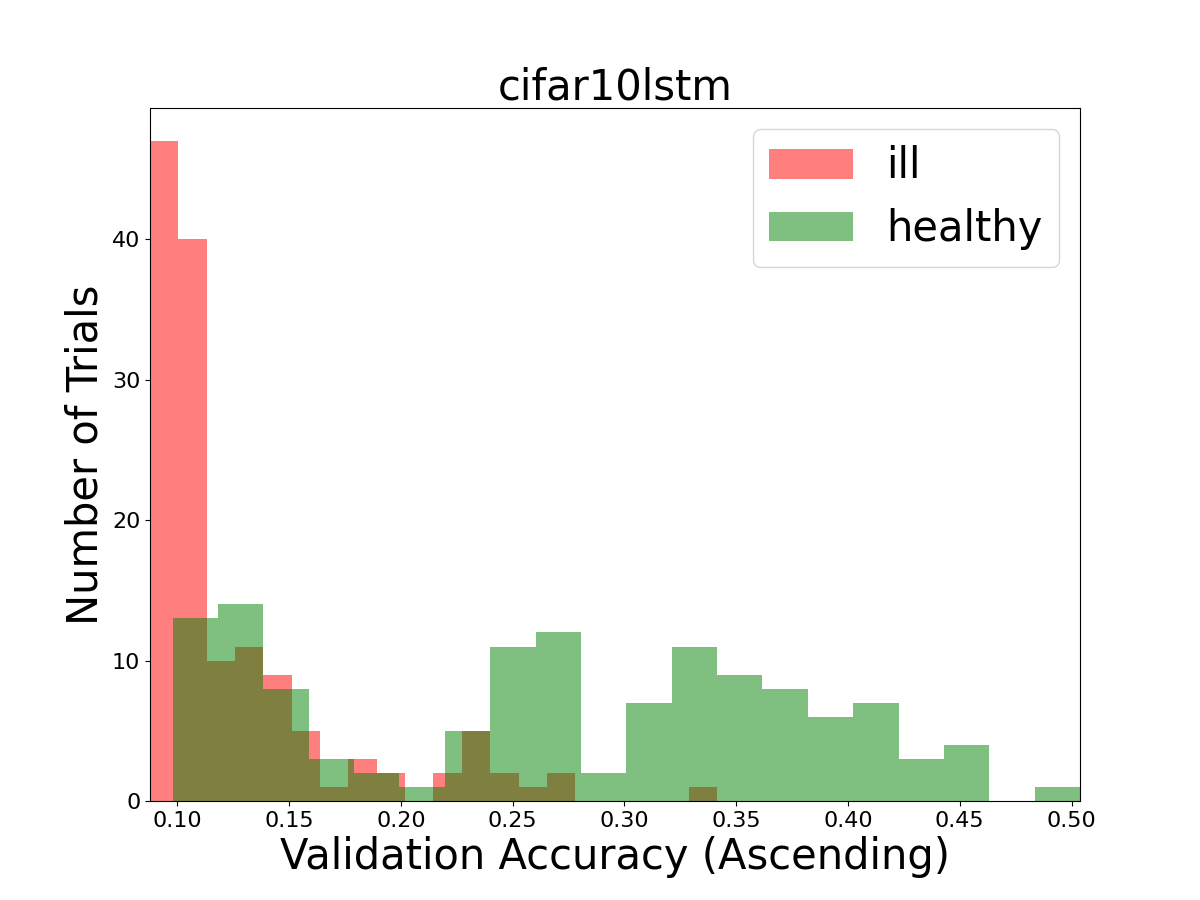
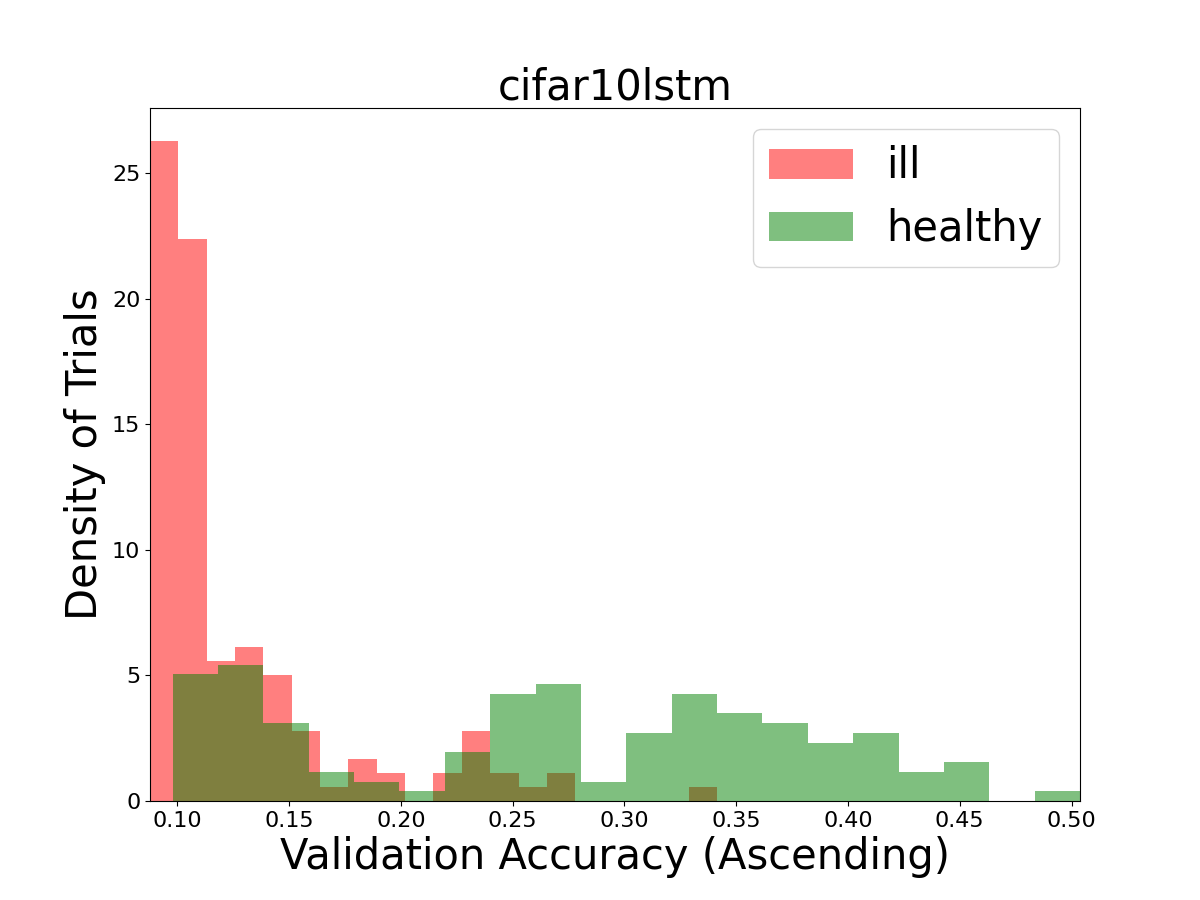
distribution all/ill/healthy

diff --git a/tools/_simulate.py b/tools/_simulate.py
@@ -338,8 +338,8 @@ def plot_triangle(raw_id_metric_list_dict, our_id_epoch_dict, scene_name, loss_f
 
 def plot_distribution(raw_metric_list, healthy_metric_list, not_ill_metric_list, ill_metric_list,
                       symptom_metric_list_dict, scene_name, loss_flag):
-    bins = 20 if loss_flag else 20
-    density = False ###
+    bins = 10 if loss_flag else 20
+    density = True #if loss_flag else False
     loss_max = 3 ###
 
     fontsize = 30
@@ -357,17 +357,20 @@ def plot_distribution(raw_metric_list, healthy_metric_list, not_ill_metric_list,
             symptom_metric_list_dict[symptom] = metric_list
     # same column width
     # plt.hist(raw_metric_list, bins=bins, color="b", alpha=0.1, label="original",density=density)
-    plt.hist(ill_metric_list, bins=bins, color="r", alpha=0.5, label="ill", density=density)
+    if loss_flag:
+        plt.hist(raw_metric_list, bins=bins, color="b", alpha=0.5, label="all", density=density)
+    else:
+        plt.hist(ill_metric_list, bins=bins, color="r", alpha=0.5, label="ill", density=density)
     plt.hist(healthy_metric_list, bins=bins, color="g", alpha=0.5, label="healthy", density=density)
     # plt.hist(not_ill_metric_list, bins=bins, color="g", alpha= 0.5, label="healthy+NMG",density=density)
     if loss_flag:
         plt.xlabel("Validation MSE Loss (Ascending)", fontsize=fontsize)
-        plt.ylabel("Number of Trials", fontsize=fontsize)
     else:
         plt.xlabel("Validation Accuracy (Ascending)", fontsize=fontsize)
         lst = healthy_metric_list+ill_metric_list
         plt.xlim(np.min(lst),np.max(lst))
-        plt.ylabel("Number of Trials", fontsize=fontsize)
+    y_label = "Density of Trials" if density else "Number of Trials"
+    plt.ylabel(y_label, fontsize=fontsize)
     plt.legend(fontsize=fontsize)
     plt.title(scene_name,fontsize=fontsize)
     fig_path = os.path.join("figs", "distribution", scene_name + ".png")
@@ -436,10 +439,10 @@ def _test(scene_idx, data_limit, top_k, use_pre):
         simulate(sqlite_path, loss_flag, data_limit, use_pre)
 
     # plot_metric(raw_metric_list, our_metric_list, not_ill_metric_list, scene_name, loss_flag, top_k)
-    plot_pie(count_dict, overview_pie_name_list, symptom_pie_name_list, rule_pie_name_list, scene_name)
+    # plot_pie(count_dict, overview_pie_name_list, symptom_pie_name_list, rule_pie_name_list, scene_name)
     # plot_triangle(raw_id_metric_list_dict, our_id_epoch_dict, scene_name, loss_flag)
     plot_distribution(raw_metric_list,healthy_metric_list, not_ill_metric_list,ill_metric_list, symptom_metric_list_dict, scene_name, loss_flag)
-    plot_epoch_distribution(raw_metric_list,our_metric_list, raw_id_metric_list_dict, our_id_epoch_dict, scene_name, loss_flag)
+    # plot_epoch_distribution(raw_metric_list,our_metric_list, raw_id_metric_list_dict, our_id_epoch_dict, scene_name, loss_flag)
     print(np.mean(list(our_id_epoch_dict.values())))
 
 
@@ -453,7 +456,7 @@ def test():
     # sqlite_path = "/Users/admin/Desktop/sqlite_files/cifar10lstm/_monitor/nphicw6e.sqlite"
     # sqlite_path = "/Users/admin/Desktop/sqlite_files/traffic96trans/_monitor/bmv7wr9x.sqlite"
 
-    use_pre = False
+    use_pre = True
     data_limit = 6000
     top_k_list = [-1, -1, -1, -1]  # [50,50,20,20]
     for idx in range(len(scene_name_list)):
